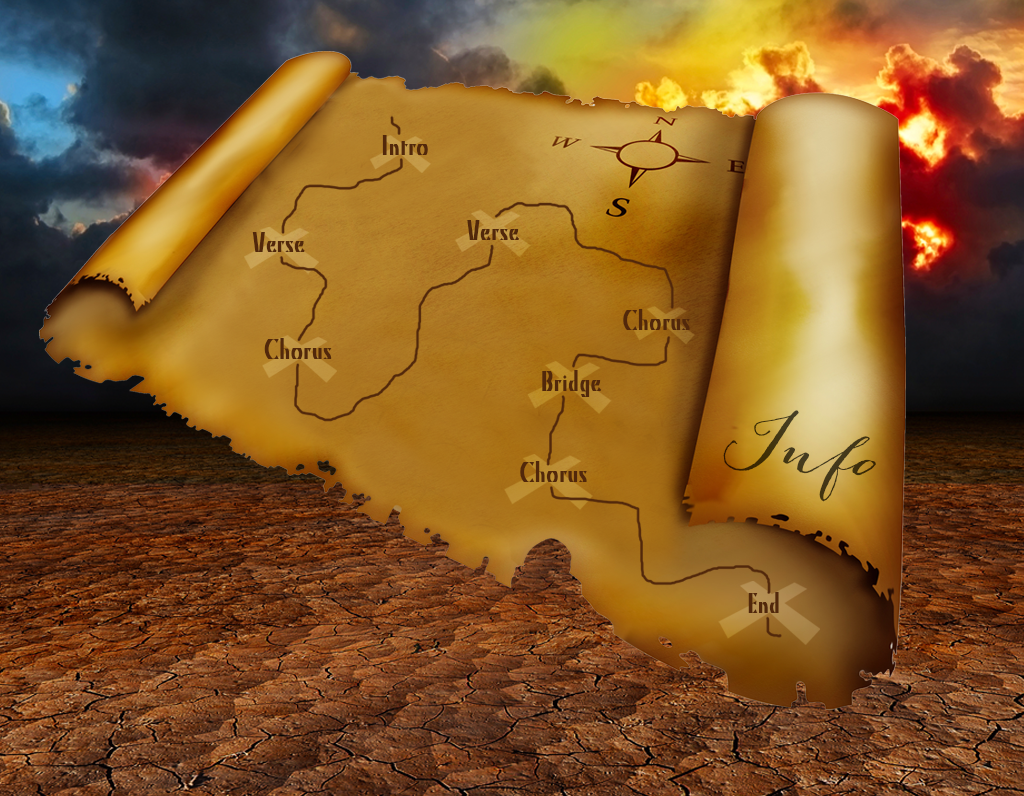
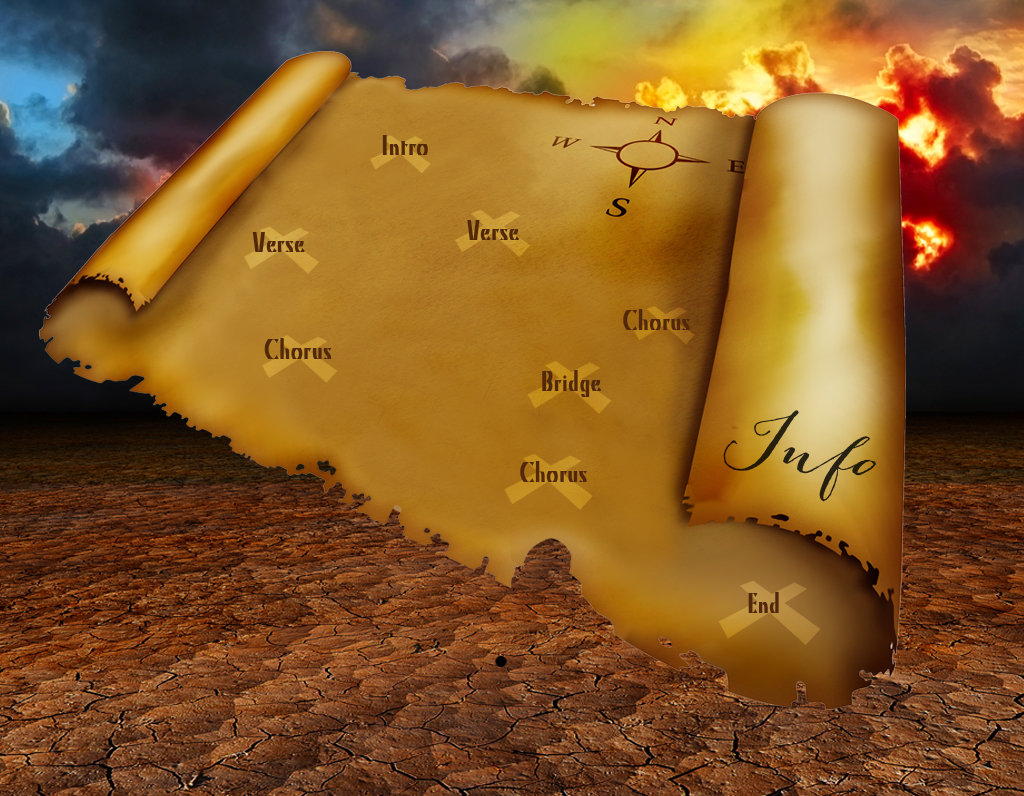
updates in a journey through a song

diff --git a/js/how_to_write_a_song_custom.js b/js/how_to_write_a_song_custom.js
@@ -13,7 +13,7 @@ var popup_isVisible= false;
 var load_interval; 
 var flag_audioLoaded=false,flag_videoLoaded = false;
 var bgPathColor = '#52280B';
-var fgPathColor = '#FFFFFF';
+var fgPathColor = '#e74500';
 var context;
 var globalCoordinatesCount = 0;
 var inter;
